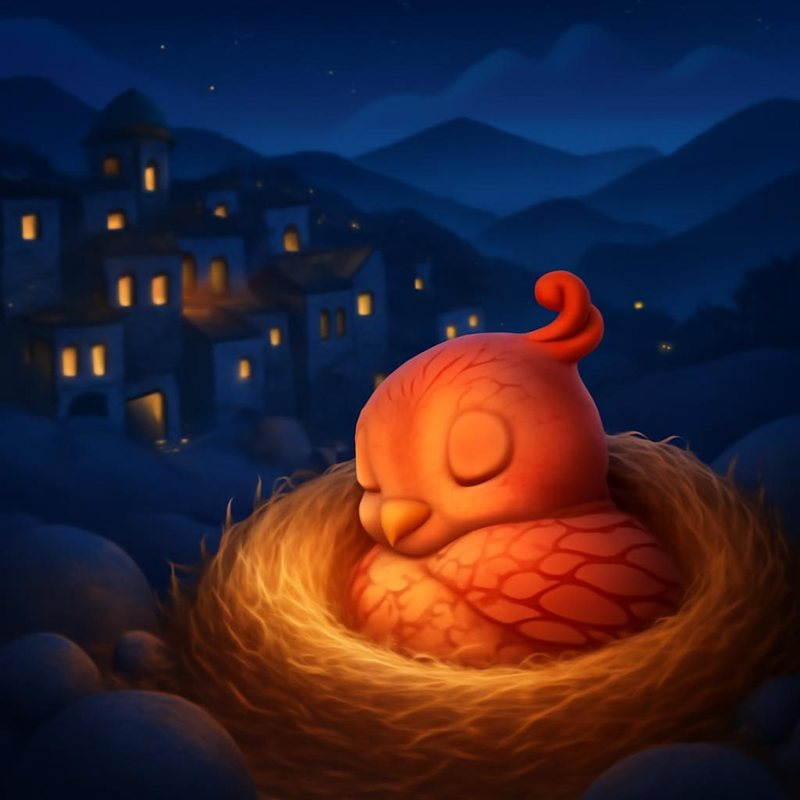
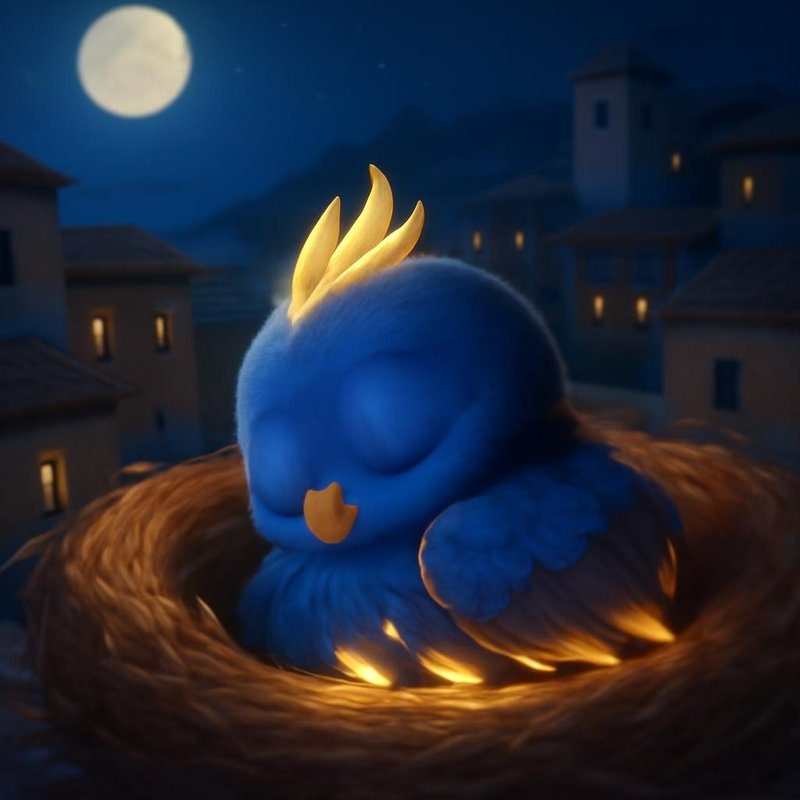
Fias Nest: alle echten Fia-Posen von Tinko (nachtblau/gold)
- Neue Bilder fuer wach, schlaeft (ersetzen die alten orangen Bilder),
  atmet, muede, fliegt, freut, hoert und Staedtchen bei Nacht, je 800 px, <70 KB
- POSEN_DA ergaenzt; Staedtchen-Bild als Nachtszene (abends/nachts und im Film),
  dann ohne doppelte Nest-Fia
- Offline-Kopie fiasnest-v5

Claude-Session: https://claude.ai/code/session_01WJpM1nbdBudHGmZFDewuLb

diff --git a/schlaf/index.html b/schlaf/index.html
@@ -264,6 +264,7 @@ body.dimmed .nova-btn,body.dimmed .fb-btn.float{display:none!important}
 @keyframes sagNeu{from{opacity:.001;transform:translateY(6px)}}
 .scene.bildbg{background:var(--szbild) center/cover no-repeat}
 .scene.bildbg svg{opacity:0}
+.scene.bildbg .nestfia{display:none}
 /* Einführung beim ersten Start */
 .onb{position:fixed;inset:0;z-index:30;display:flex;align-items:center;justify-content:center;padding:max(20px,env(safe-area-inset-top,0px)) 16px max(20px,env(safe-area-inset-bottom,0px));background:rgba(3,5,15,.94);overflow-y:auto}
 .onb[hidden]{display:none}
@@ -1423,14 +1424,14 @@ $('personAdd').onclick=()=>{const n=$('person').value.trim().slice(0,20);if(!n||
 /* Posen: Nur Bilder, die hier eingetragen sind, werden geladen (keine Anfragen ins Leere, keine 404).
    Neues Fia-Bild: als posen/<pose>.jpg ablegen (max. 120 KB, zeigt wirklich Fia) und den Namen hier eintragen.
    Alle anderen Posen bewegt CSS sanft auf dem vorhandenen Bild. */
-var POSEN_DA=['wach','schlaeft'];
+var POSEN_DA=['wach','schlaeft','atmet','muede','fliegt','freut','hoert','staedtchen-nacht'];
 var POSE_BILD={},POSE_KL=['p-wach','p-muede','p-schlaeft','p-fliegt','p-atmet','p-freut','p-hoert'];
 POSEN_DA.forEach(p=>POSE_BILD[p]='posen/'+p+'.jpg');
 try{localStorage.removeItem('fiasnest.posenFehlen')}catch(e){}
 function poseBild(p){return(typeof POSE_BILD!=='undefined'&&POSE_BILD&&POSE_BILD[p])||null}
 function posenAnwenden(){
   document.querySelectorAll('img[data-pose]').forEach(i=>{const b=poseBild(i.dataset.pose)||i.dataset.basis;if(b&&i.getAttribute('src')!==b)i.src=b;i.classList.toggle('echt',!!poseBild(i.dataset.pose))});
-  const bg=poseBild('staedtchen-nacht');document.querySelectorAll('.scene').forEach(sc=>{sc.classList.toggle('bildbg',!!bg);if(bg)sc.style.setProperty('--szbild','url("'+bg+'")')})}
+  const bg=poseBild('staedtchen-nacht');document.querySelectorAll('.scene').forEach(sc=>{const an=!!bg&&(zeitStage()>=2||sc.id==='filmScene');sc.classList.toggle('bildbg',an);if(an)sc.style.setProperty('--szbild','url("'+bg+'")')})}
 /* Eine Pose für ein Bild setzen; nach ms wieder zurück zur Grundpose */
 const POSE_T=new WeakMap();
 function setPose(el,p,ms,zurueck){if(!el)return;POSE_KL.forEach(k=>el.classList.remove(k));el.classList.add('p-'+p);el.dataset.pose=p;

diff --git a/schlaf/sw.js b/schlaf/sw.js
@@ -1,7 +1,8 @@
 /* Fias Nest offline: zuerst Netz, sonst Kopie aus dem Cache. Nur eigene Dateien, nie Server-Anfragen. */
-const CACHE = 'fiasnest-v4';
+const CACHE = 'fiasnest-v5';
 const KERN = ['./', 'index.html', 'manifest.webmanifest', 'cover.jpg', 'icon-192.png', 'icon-180.png',
-  'posen/wach.jpg', 'posen/schlaeft.jpg',
+  'posen/wach.jpg', 'posen/schlaeft.jpg', 'posen/atmet.jpg', 'posen/muede.jpg', 'posen/fliegt.jpg',
+  'posen/freut.jpg', 'posen/hoert.jpg', 'posen/staedtchen-nacht.jpg',
   'figuren/fia.jpg', 'figuren/otti.jpg', 'figuren/sunny.jpg', 'figuren/waef.jpg', 'feedback.js',
   '../nova/nova.js', '../nova/seelen.js'];
 self.addEventListener('install', e => {
